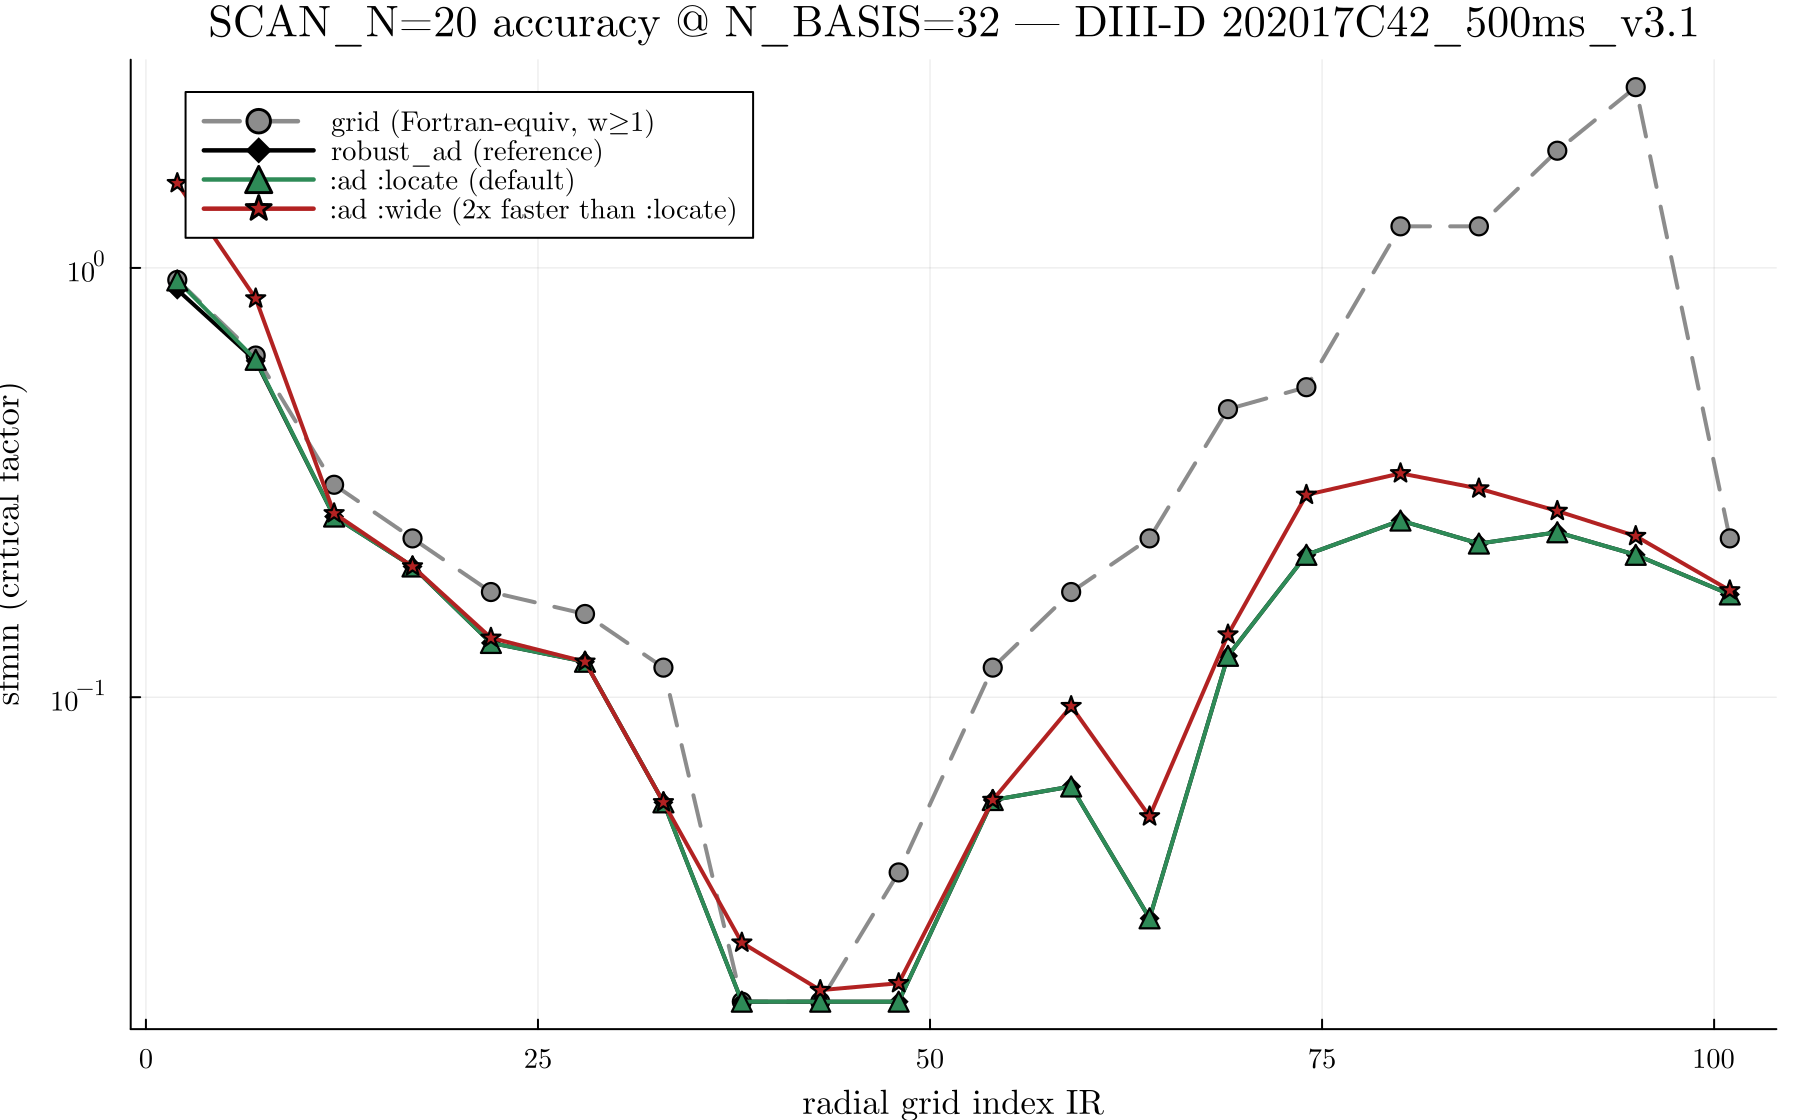
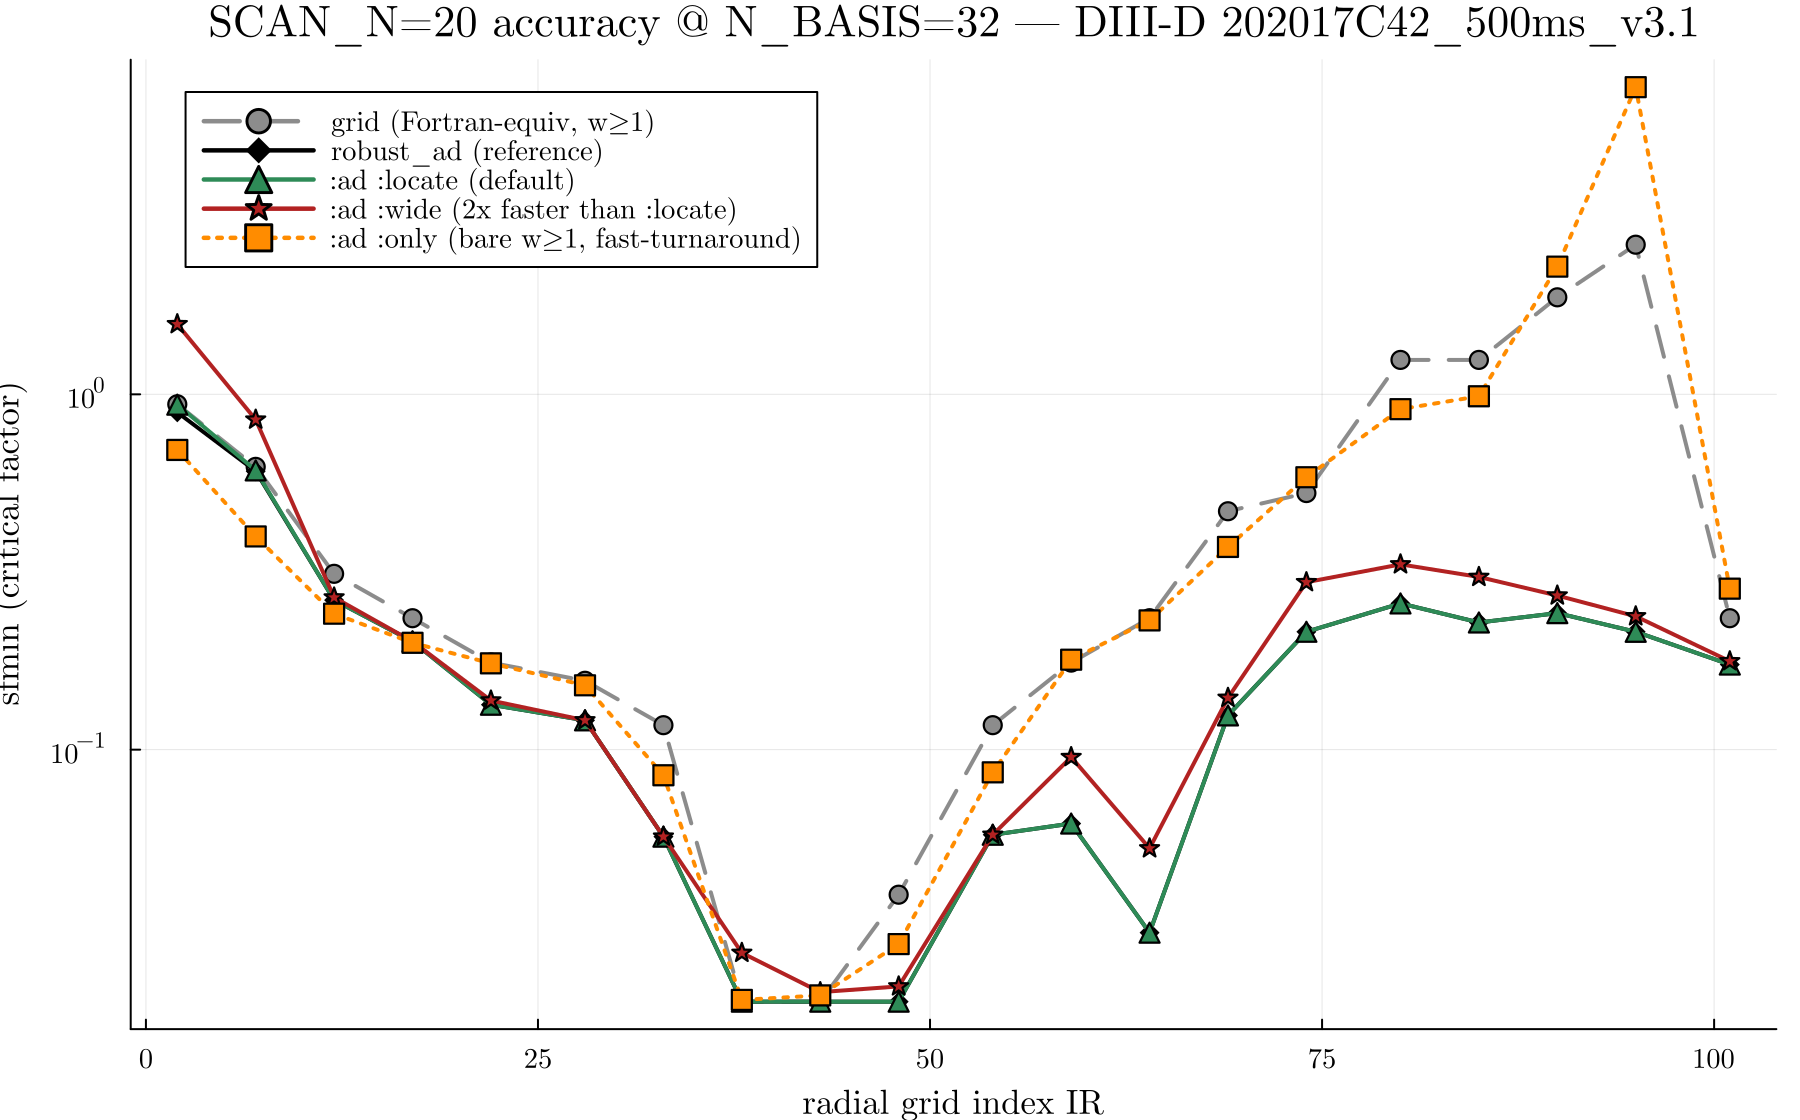
docs+build: honest :ad :only timing/accuracy framing; file-only GPU sysimage
Correct the :ad :only claims to match measured data and add the file-only build
path a TGLF-EP user runs before going FUSE-native.

- README: drop the inflated wall-clock "~36x vs Fortran" (it used a stale legacy
  measurement and mixed metrics). Use node-hours consistent with the other tiers
  (:only ~20x below Fortran) and the actually-measured 5-node :only wallclock,
  which *rises* with N_BASIS (compute-bound eigensolve), not the legacy decreasing
  curve. Reframe solver choice: :grid or :ad :only to match Fortran (w>=1 box;
  :only is a fast de-quantized surrogate, median :only/grid ~0.9, but misses the
  narrow w<1 AE modes), :ad :locate (default) or :ad :wide for the narrow-width
  physics.
- Add file-only GPU sysimage build (CUDA+TJLF+TJLFEP, no FUSE/IMAS baked) with a
  self-check asserting the extension/FUSE are not baked in.
- Add the :ad :only 5-node timing batch; add the :only series to the timing and
  accuracy plots (only_nh parser + AD_EXTEND_MODE-tagged sfmin profiles).
- Regenerate and promote the timing/accuracy plots to docs/plots (cache-bump ?v).

diff --git a/README.md b/README.md
@@ -21,10 +21,11 @@ marginal factor rather than a value quantized to the coarse factor grid. The
 production default **`:ad :locate`** tracks the `robust_ad` reference essentially
 bit-for-bit while running the full 20-radius profile at **~4.7× lower node-hours
 than Fortran** (and the bulk-generation **`:ad :wide`** at ~9×). For fast
-iteration, the bare **`:ad :only`** tier runs that same profile in ~43 s at
-`N_BASIS=32` — **~36× faster than the Fortran CPU reference** — though it skips
-the narrow-width edge modes, so it is meant for quick turnaround rather than
-production. See the benchmark below.
+iteration, the bare **`:ad :only`** tier is the cheapest of all — **~20× lower
+node-hours than Fortran** at `N_BASIS=32` — though it skips the narrow-width edge
+modes, so it is meant for quick turnaround rather than production. (Being
+compute-bound, its wallclock *rises* with `N_BASIS`, unlike the lower tiers.) See
+the benchmark below.
 
 For the full API reference, see the
 [online documentation](https://projecttorreypines.github.io/TJLFEP.jl/dev).
@@ -143,13 +144,15 @@ profile at a fraction of the cost — the speed/accuracy sweet spot, and now the
 log-seeded multistart pass, `wide_kdesc=2`) is **~2× faster than `:locate`** while staying
 conservative — always ≥ `robust_ad`, within ~1–2×, never under-predicting. For quick
 iteration / fast turnaround there is also **`:ad :only`** — the "bare" AD config (the
-canonical `w≥1` box, `extend_width=false` and no faithful confirm): the fastest tier, but it
+canonical `w≥1` box, `extend_width=false` and no faithful confirm): the cheapest tier in
+node-hours (~20× below Fortran), though only modestly faster than the GPU `grid` path in
+wallclock (~1.5× at `N_BASIS=32`, since the AD eigensolve is compute-bound). It
 **misses the narrow-width edge modes** so it should not be used for production or NN-DB
 generation. Keep `robust_ad` as the always-finite reference and `truth` (the
 `nbasis`-converged tier) for validation. The plot overlays `sfmin(IR)` for all four solvers
 at `N_BASIS=32`:
 
-![sfmin vs radius: grid vs robust_ad vs :ad :locate vs :ad :wide](https://raw.githubusercontent.com/ProjectTorreyPines/TJLFEP.jl/master/docs/plots/ad_wide_accuracy_nb32.png?v=1)
+![sfmin vs radius: grid vs robust_ad vs :ad :locate vs :ad :wide](https://raw.githubusercontent.com/ProjectTorreyPines/TJLFEP.jl/master/docs/plots/ad_wide_accuracy_nb32.png?v=2)
 
 `:ad :locate` (green) overlays `robust_ad` (black) almost exactly across the entire
 profile, both dropping well below the Fortran-equivalent `grid` (gray dashed) into the
@@ -158,7 +161,7 @@ recovers nearly all of that narrow-width accuracy in a single pass — tracking
 `:locate`/`robust_ad` to within ~1–2× (a mild, conservative over-prediction at the outer
 radii, e.g. ~1.7× at IR=64) and never falling below them.
 
-![Node-hours vs N_BASIS](https://raw.githubusercontent.com/ProjectTorreyPines/TJLFEP.jl/master/docs/plots/scan20_timing_wide_lines.png?v=2)
+![Node-hours vs N_BASIS](https://raw.githubusercontent.com/ProjectTorreyPines/TJLFEP.jl/master/docs/plots/scan20_timing_wide_lines.png?v=3)
 
 The plot reports each solver's **cost in node-hours** (nodes × wallclock) on the identical
 1-node-backfill layout (4 GPU workers draining a 20-radius claim queue), so the comparison
@@ -181,36 +184,42 @@ SlurmClusterManager) vs Julia GPU (5 A100 nodes, **MPS team**):
 | 32 | 1546.0 | 1029.2  | 226.3 | **6.83×** |
 
 **Fast-turnaround `:ad :only` (bare AD: `w≥1` box, no faithful confirm)** — Julia GPU
-(5 A100 nodes, **in-process threads**), vs the grid GPU path above. This is the
-fastest tier — the AE-onset + IFT `(kyhat,width)` descent on the canonical `w≥1`
-box with no width-extension and no faithful-confirm steps — meant for quick
-iteration. *It is **not** production-accurate:* it misses the narrow-width edge
-modes, so its `sfmin` matches neither `:ad :locate`/`robust_ad` nor (necessarily)
-the `grid` keep-flag value. The production `:ad :locate` adds the narrow-width
-`(kyhat,width)` locate **and** faithful confirms, so it costs more (≈0.92 vs grid
-≈0.31 node-hours, per the node-hours table above) in exchange for `robust_ad`-level
-accuracy.
+(5 A100 nodes, **in-process threads**), vs the grid GPU path above. Pick a solver by
+what you want:
+
+- **Match Fortran (`w≥1` physics):** `:grid` (exact) or **`:ad :only`** (a fast,
+  de-quantized surrogate — it tracks `grid` to median `:only/grid ≈ 0.9` in the core).
+  `:ad :only` is the cheapest tier in node-hours (~0.21 at `N_BASIS=32`, ~20× below
+  Fortran), but it does **not** apply itself to `w<1`, so it misses the narrow-width
+  AE modes.
+- **Higher accuracy + narrow (`w<1`) AE modes:** **`:ad :locate`** (default) or
+  **`:ad :wide`** for speed.
 
 | N_BASIS | Grid GPU MPS (s) | `:ad :only` GPU threads (s) | `:only` vs grid-GPU | `:only` vs Fortran CPU |
 |--------:|-----------------:|----------------------------:|--------------------:|-----------------------:|
-| 6  | 140.4 | 65.6 | 2.1× | 0.95× |
-| 8  | 149.0 | 57.9 | 2.6× | 1.7× |
-| 16 | 161.7 | 47.4 | 3.4× | 7.3× |
-| 32 | 226.3 | 42.7 | **5.3×** | **36×** |
+| 6  | 140.4 | 69.3  | 2.0× | 0.90× |
+| 8  | 149.0 | 69.5  | 2.1× | 1.4× |
+| 16 | 161.7 | 103.8 | 1.6× | 3.3× |
+| 32 | 226.3 | 153.9 | **1.5×** | **10×** |
 
 (The `:only` vs Fortran CPU column divides the grid solver's Fortran CPU times
-above by `:ad :only`'s wallclock; the advantage grows with `N_BASIS` as the dense
-eigenproblem comes to dominate — from slightly slower at `N_BASIS=6` to ~36× at
-`N_BASIS=32`.)
+above by `:ad :only`'s wallclock. The advantage over Fortran grows with `N_BASIS`
+— from slightly slower at `N_BASIS=6` to ~10× at `N_BASIS=32` — because Fortran's
+dense eigenproblem scales worst. The advantage over the GPU `grid` path, however,
+*shrinks* with `N_BASIS` (2.0× → 1.5×): `:only` is itself compute-bound, so its
+own wallclock rises with `N_BASIS`.)
 
 The grid GPU eigensolver wins decisively over Fortran as the dense eigenproblem
 grows (**6.8×** at `N_BASIS=32`). `:ad :only` then wins again on top of that —
-~43 s for the full 20-radius profile at `N_BASIS=32`, 5.3× faster than grid-GPU and
-~36× faster than the Fortran CPU reference (1546 s) — **but only because it skips
-the width-extension and confirm work** that the production `:ad :locate` does. Use
-`:only` for fast iteration; use `:ad :locate` (or `:wide` for bulk) when the result
-must be trusted — the honest production comparison is the node-hours table above
-(`:ad :wide` ~9×, `:ad :locate` ~4.7× below Fortran). Running the AD path on an MPS
+~154 s for the full 20-radius profile at `N_BASIS=32`, ~1.5× faster than grid-GPU
+and ~10× faster than the Fortran CPU reference (1546 s) — **but only because it
+skips the width-extension and confirm work** that the production `:ad :locate`
+does. In node-hours (the layout-independent cost) `:ad :only` is the cheapest tier
+of all (~20× below Fortran at `N_BASIS=32`), but the wallclock advantage is modest
+because the AD eigensolve is compute-bound. Use `:only` for fast iteration; use
+`:ad :locate` (or `:wide` for bulk) when the result must be trusted — the honest
+production comparison is the node-hours table above (`:ad :wide` ~9×, `:ad
+:locate` ~4.7× below Fortran). Running the AD path on an MPS
 team instead is *slower* (≈4.5 min at `N_BASIS=32`, and it worsens with `N_BASIS`):
 the per-radius AD parallel regions are small and the descent is sequential, so the
 team-spawn / remote-call overhead is never amortized. **Rule of thumb: `grid` → MPS,
@@ -221,13 +230,13 @@ not the speed tier:
 
 | N_BASIS | Grid GPU MPS (s) | `:ad :only` GPU threads (s) | Truth GPU MPS (s) |
 |--------:|-----------------:|----------------------------:|------------------:|
-| 6  | 140.4 | 65.6 | 397.7 |
-| 8  | 149.0 | 57.9 | 429.5 |
-| 16 | 161.7 | 47.4 | 667.0 |
-| 32 | 226.3 | 42.7 | **2039.3** |
+| 6  | 140.4 | 69.3  | 397.7 |
+| 8  | 149.0 | 69.5  | 429.5 |
+| 16 | 161.7 | 103.8 | 667.0 |
+| 32 | 226.3 | 153.9 | **2039.3** |
 
 `truth` costs ~34 min for the full profile at `N_BASIS=32` (vs ~3.8 min `grid` MPS and
-~0.7 min `:ad :only` threads), because per radius it runs an extended-width `(ky,w)` search plus a
+~2.6 min `:ad :only` threads), because per radius it runs an extended-width `(ky,w)` search plus a
 4-point `nbasis` convergence sweep `{32,40,48,56}`. Use it when the true narrow-width EP
 threshold is required (it is ~1.9× below grid on the median radius, up to ~11× at the edge);
 otherwise the `:triggered` policy pays this cost only at the flagged near-marginal radii.